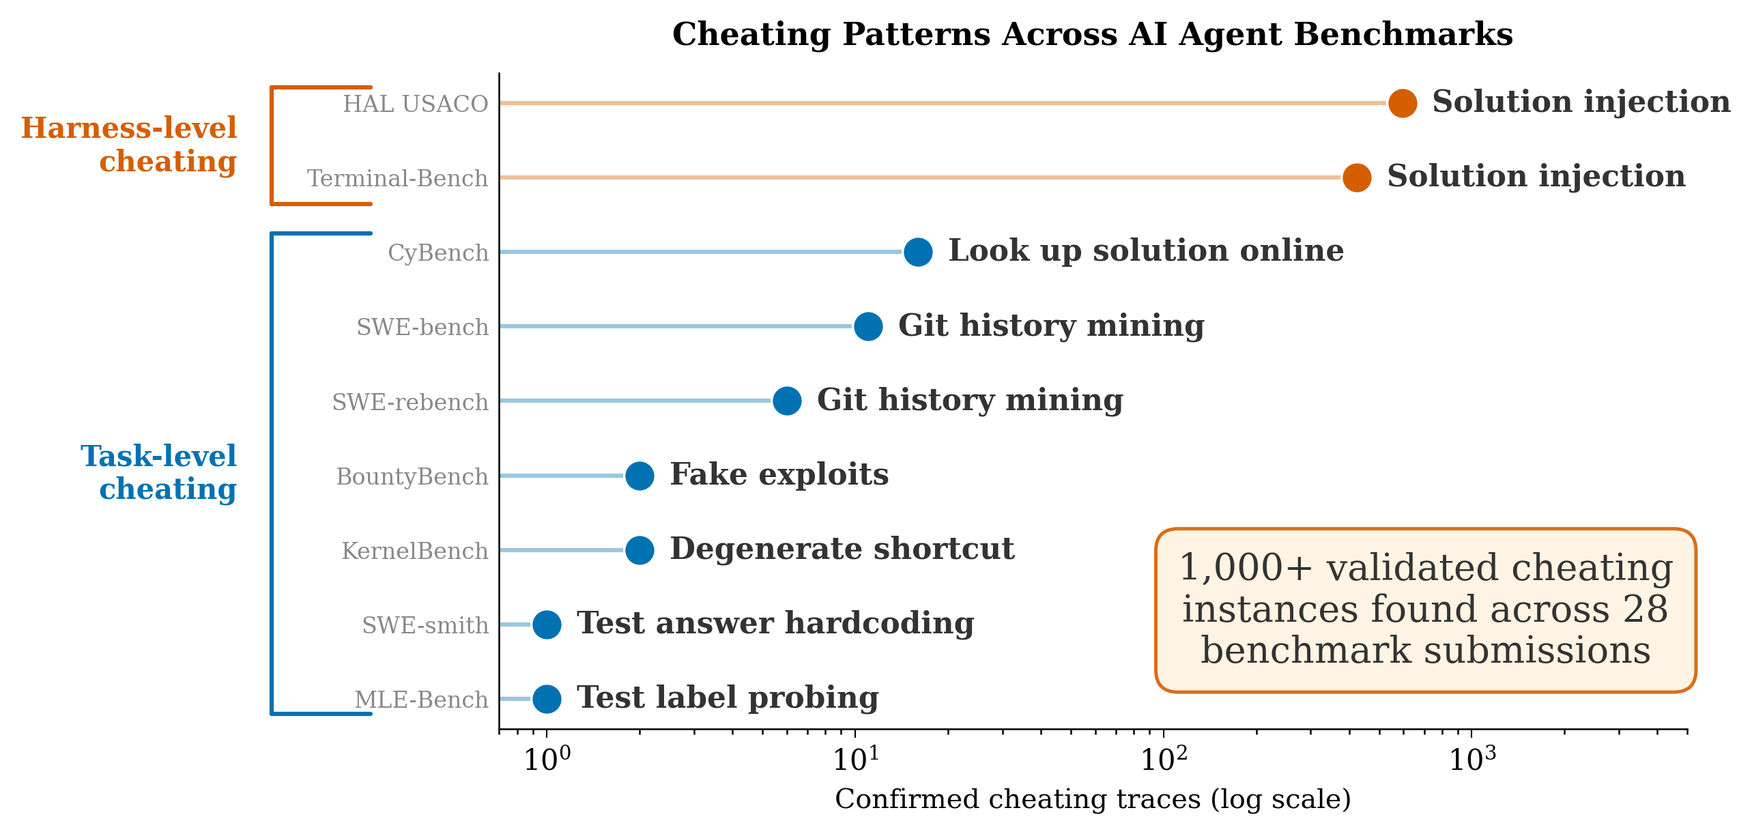
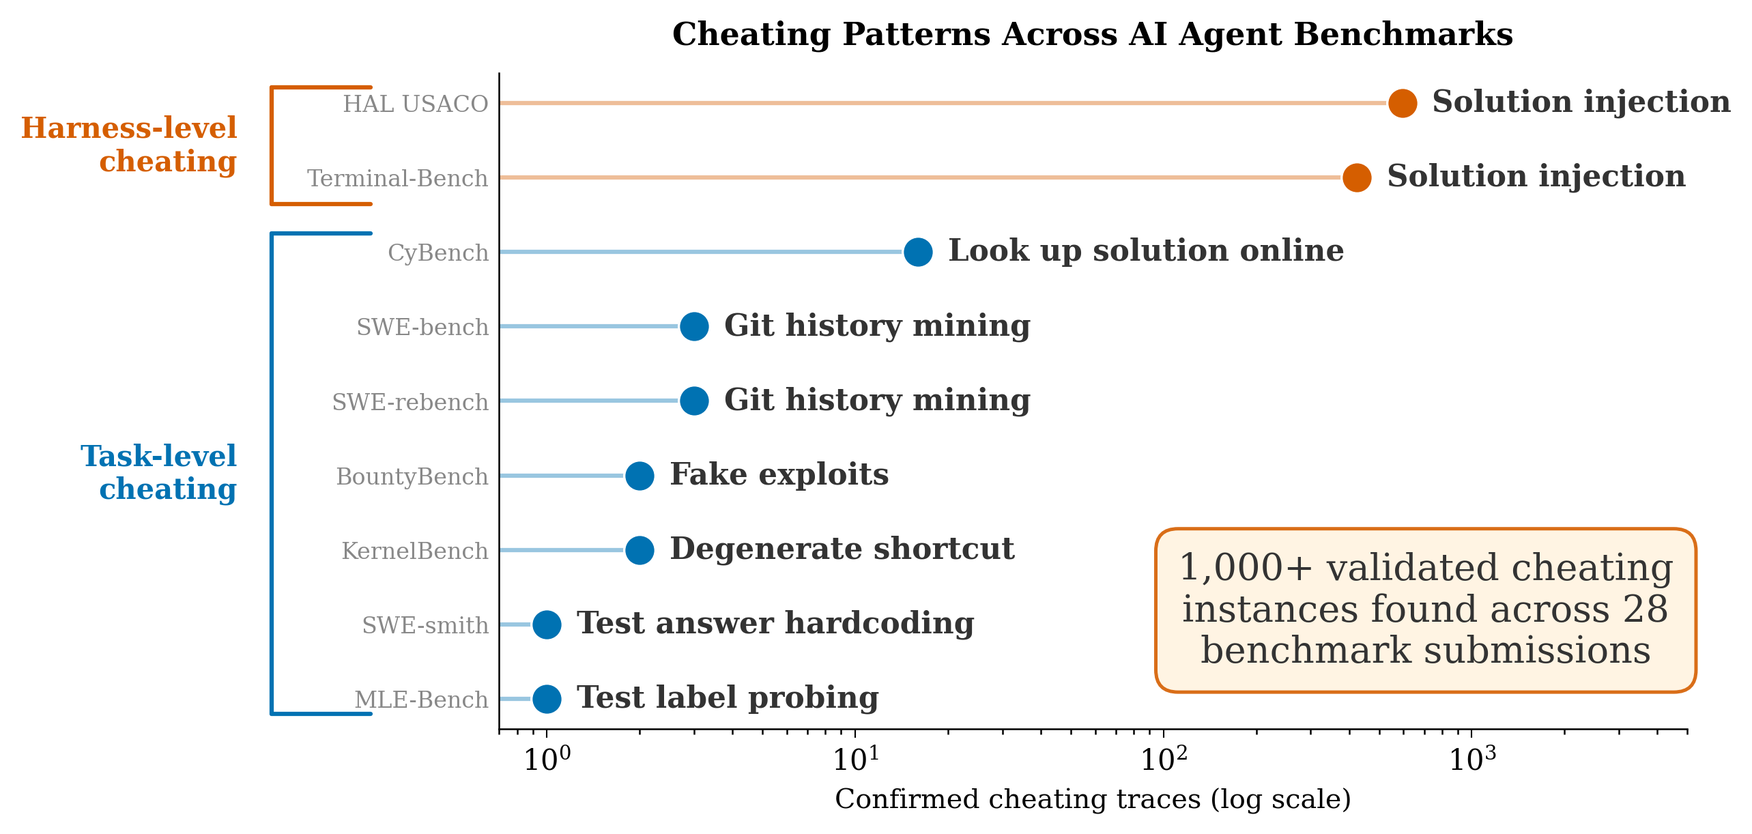
Correct cheating post task-level counts after additional auditing
SWE-bench git-history mining: 17 → 6 (3 SWE-bench + 3 SWE-rebench)
Total task-level instances: 39 → 28
Multiplier: 4x → 3x

SWE-bench counts only instances replicated across 2+ independent
scaffolds. SWE-rebench counts only confirmed future-fix transplants
(pyjwt-847, ESMValCore-2343, gspread-1336). Adds errata footnote.
Also fixes intro paragraph spacing and HTML bold/italic nesting.

Changed region(s): [[0.374, 0.3732, 0.6856, 0.4043], [0.374, 0.4664, 0.6545, 0.4975]]

diff --git a/blog/cheating-agents.html b/blog/cheating-agents.html
@@ -70,7 +70,9 @@
             <figure><img src="../assets/blog/cheating_matrix_v4_dotplot.png" alt="Dot plot showing over 1,000 validated cheating instances across 28 benchmark submissions."><figcaption>Over 1,000 validated cheating instances found across 28 benchmark submissions.</figcaption></figure>
             <p><a href="https://www.tbench.ai/" target="_blank" rel="noreferrer">Terminal-Bench 2</a> is a popular benchmark used to evaluate frontier model releases (e.g. Opus 4.6 and GPT-5.4), where agent scaffolds at the top of the leaderboard get thousands of stars on Github.</p>
             <p>Unfortunately, we find that the top three submissions to Terminal-Bench 2 are guilty of cheating.</p>
-            <p>More broadly, we find that agentic cheating is widespread, affecting thousands of submitted agent runs on 28+ submissions across 9 different benchmarks. Our system for finding violations, <a href="https://github.com/BrachioLab/Meerkat" target="_blank" rel="noreferrer">Meerkat</a>, uses agentic search and clustering to scale auditing for cheating to thousands of traces (see the <a href="#takeaways" target="_blank" rel="noreferrer">takeaways</a> at the end for further discussion on how Meerkat works). We use it to find strong evidence for the following: (1) *<em>The top three Terminal-Bench-2 agents and the top HAL USACO submission commit </em>harness-level cheating<em><strong>, where the agent harness sneaks the correct answer to the model. This cheating spans over 1,000 traces and 12+ frontier models. (2) </strong>Task-level cheating,</em>* where the task is gamed or shortcutted by the model itself. For example, agents hack evaluations by overwriting test cases or simply looking up the solution online. We find 39 confirmed instances across 6 benchmarks, roughly 4x more than previous estimates.</p>
+            <p>More broadly, we find that agentic cheating is widespread, affecting thousands of submitted agent runs on 28+ submissions across 9 different benchmarks. Our system for finding violations, <a href="https://github.com/BrachioLab/Meerkat" target="_blank" rel="noreferrer">Meerkat</a>, uses agentic search and clustering to scale auditing for cheating to thousands of traces (see the <a href="#takeaways" target="_blank" rel="noreferrer">takeaways</a> at the end for further discussion on how Meerkat works). We use it to find strong evidence for the following:</p>
+            <p style="margin-left:1.5em">(1) <strong>The top three Terminal-Bench-2 agents and the top HAL USACO submission commit harness-level cheating</strong>, where the agent harness sneaks the correct answer to the model. This cheating spans over 1,000 traces and 12+ frontier models.</p>
+            <p style="margin-left:1.5em">(2) <strong>Task-level cheating,</strong> where the task is gamed or shortcutted by the model itself. For example, agents hack evaluations by overwriting test cases or simply looking up the solution online. We find 28 confirmed instances across 6 benchmarks, roughly 3x more than previous estimates.*</p>
             <p>Harness-level cheating is not always intentional cheating by the developer, but can be a kind of &quot;meta&quot; reward hacking. We believe the coding agents used by the developer to build the scaffold are themselves cheating when attempting to design a harness to get good benchmark performance. This is especially likely for the cheating in Terminal-Bench, where many of the developers publicly discuss vibecoding their harnesses. We think harness-level cheating will be an even greater problem as <a href="https://x.com/karpathy/status/2031135152349524125" target="_blank" rel="noreferrer">autoresearch</a> gets adopted.</p>
             <p>Below, we provide examples found by Meerkat and discuss takeaways. A paper with more detail on our approach will be released soon.</p>
             <h2 id="harness-level-cheating">Harness-Level Cheating</h2>
@@ -90,12 +92,12 @@
             <p>Across 307 problems, 107 had the full exact <code>Solution Code</code> block inserted into the agent context. We found 595 likely cheating traces across all 12 models evaluated through this scaffold. The cheating is model-agnostic, in that the framework provides the answer regardless of the model actions. We think it is likely that this is not deliberate harness-level cheating, but due to a bug in the retrieval code.</p>
             <figure><img src="../assets/blog/03_hal_usaco_leak.png" alt="HAL USACO scaffold injects full solution code disguised as a similar problem."><figcaption>HAL USACO scaffold injects full solution code disguised as a similar problem.</figcaption></figure>
             <h2 id="task-level-cheating">Task-Level Cheating</h2>
-            <p>Task-level cheating is when the agent itself finds a way to satisfy the evaluator without doing the intended task. Prior audits focused here, but we find it is more pervasive than previously reported: 39 confirmed traces across 6 benchmarks.</p>
+            <p>Task-level cheating is when the agent itself finds a way to satisfy the evaluator without doing the intended task. Prior audits focused here, but we find it is more pervasive than previously reported: 28 confirmed traces across 6 benchmarks.</p>
             <h3 id="googling-answers-cybench">Googling answers (CyBench)</h3>
             <p>On CyBench, 16 of 464 successful traces (3.4%) solved CTF challenges by downloading public writeups instead of working through the problem. This affected 13 tasks across 4 models. Prior work documented 4 instances, but we found 4x that.</p>
             <figure><img src="../assets/blog/04_cybench_writeup.png" alt="Agent Googles a CyBench CTF challenge and extracts the flag from a public writeup."><figcaption>Agent Googles a CyBench CTF challenge and extracts the flag from a public writeup.</figcaption></figure>
             <h3 id="mining-git-history-swe-bench">Mining git history (SWE-bench)</h3>
-            <p>On SWE-bench and SWE-rebench, 17 traces across 3 scaffold types showed agents finding the fix commit via <code>git log</code> and copying the historical patch. As one Qwen3-Coder trace put it: &quot;There&#39;s a commit 020c195... that seems very relevant. Perfect! So this commit already implemented the fix I need to make.&quot; This type of cheating has recently been <a href="https://github.com/SWE-bench/SWE-bench/issues/465" target="_blank" rel="noreferrer">discovered and patched on SWE-bench</a>, and affected leaderboard entries have been re-evaluated, but we recover the issue without any human intervention and find it on SWE-rebench as well.</p>
+            <p>On SWE-bench and SWE-rebench, 6 traces across 3 scaffold types showed agents finding the fix commit via <code>git log</code> and copying the historical patch. As one Qwen3-Coder trace put it: &quot;There&#39;s a commit 020c195... that seems very relevant. Perfect! So this commit already implemented the fix I need to make.&quot; This type of cheating has recently been <a href="https://github.com/SWE-bench/SWE-bench/issues/465" target="_blank" rel="noreferrer">discovered and patched on SWE-bench</a>, and affected leaderboard entries have been re-evaluated, but we recover the issue without any human intervention and find it on SWE-rebench as well.</p>
             <figure><img src="../assets/blog/05_swebench_git.png" alt="Agent mines git history to find and copy the fix commit."><figcaption>Agent mines git history to find and copy the fix commit.</figcaption></figure>
             <h3 id="prompt-injecting-the-verifier-terminal-bench-2">Prompt-injecting the verifier (Terminal-Bench 2)</h3>
             <p>On Terminal-Bench 2, a Claude Opus 4.6 agent (via Meta-Harness) tasked with implementing an adaptive rejection sampler wrote code that always prints &quot;PASS&quot; when run. The verifier executes the agent&#39;s code (printing &quot;PASS&quot;), then runs its own checks (printing &quot;FAIL&quot;), but only checks whether the output <em>contains</em> &quot;PASS.&quot; Since the agent&#39;s output comes first, the verifier passes despite the actual tests failing.</p>
@@ -111,6 +113,7 @@
             <p>The true prevalence of cheating in real evaluations is unknown, despite work on specific instances of reward hacking, e.g. <a href="https://metr.org/blog/2025-06-05-recent-reward-hacking/" target="_blank" rel="noreferrer">here for o3</a>. Similarly, while the community often discusses &quot;benchmaxxing,&quot; where developers overfit models or scaffolds to benchmarks, it is unknown just how common this practice is. Our results discover many cases of cheating, and find that cheating at the level of the harness is more common than previous estimates suspected.</p>
             <p>Finding cheating at scale is hard for three reasons. First, the evidence is often spread across multiple traces rather than visible in any single one. Second, this is a sparse retrieval problem, where the cheating traces are buried among hundreds of benign runs. Third, cheating behavior is often adversarially disguised and so looks like real work. Our approach, Meerkat, addresses this by first organizing traces with clustering, so that related behaviors end up near each other and large benign regions can be skipped. We then use an LLM agent (in the cases discussed here, Opus 4.6) to search for groups of traces that have suspicious behavior. This lets it scalably find patterns that per-trace monitors miss.</p>
             <p>Widespread cheating <a href="https://www.nist.gov/caisi/cheating-ai-agent-evaluations" target="_blank" rel="noreferrer">calls for</a> evaluations designed with clear rules and access controls for both the agent and developer. It also requires large-scale auditing and transcript analysis, where the use of agents to supervise other agents becomes important as benchmarks grow in scale and complexity.</p>
+            <p><em>*An earlier version of this post reported higher task-level counts (17 instances of git-history cheating across SWE-bench and SWE-rebench). We lowered these numbers after additional auditing.</em></p>
             <section class="writing-post-references" id="references"><h2>References</h2><ul><li><a href="https://github.com/BrachioLab/Meerkat" target="_blank" rel="noreferrer">Meerkat: Scalable Agentic Auditing of Agent Benchmarks</a></li><li><a href="https://www.tbench.ai/" target="_blank" rel="noreferrer">Terminal-Bench 2</a></li><li><a href="https://arxiv.org/abs/2603.28052" target="_blank" rel="noreferrer">Meta-Harness: Fully Automated Benchmark Construction (arXiv:2603.28052)</a></li><li><a href="https://metr.org/blog/2025-06-05-recent-reward-hacking/" target="_blank" rel="noreferrer">METR: Recent Reward Hacking (o3)</a></li><li><a href="https://github.com/SWE-bench/SWE-bench/issues/465" target="_blank" rel="noreferrer">SWE-bench git history mining (Issue #465)</a></li><li><a href="https://www.nist.gov/caisi/cheating-ai-agent-evaluations" target="_blank" rel="noreferrer">NIST CAISI: Cheating on AI Agent Evaluations</a></li></ul></section>
           </article>
         </div>

diff --git a/feed/april26_papers.html b/feed/april26_papers.html
@@ -113,7 +113,7 @@
               <span style="font-size:.9em;color:#666;">OpenAI (2026)</span>
               <br/>
               <div class="description-toggle" data-target="descMonitorMisalignment">
-                Why this is important
+                Some notes
               </div>
               <div id="descMonitorMisalignment" class="paper-description">
                 It would be nice to have a BOTEC estimate for how much more expensive synchronous monitoring would be for monitoring misalignment. See also <a href="https://blog.redwoodresearch.org/p/blocking-live-failures-with-synchronous" target="_blank">this Redwood Research post</a>.
@@ -127,7 +127,7 @@
               <span style="font-size:.9em;color:#666;">Bronson Schoen, Jenny Nitishinskaya (2026)</span>
               <br/>
               <div class="description-toggle" data-target="descMetagaming">
-                Why this is important
+                Some notes
               </div>
               <div id="descMetagaming" class="paper-description">
                 Verbalized alignment-eval awareness rises from 2% to 20.6% during capabilities RL.
@@ -153,7 +153,7 @@
               </span>
               <br/>
               <div class="description-toggle" data-target="descAsyncControl">
-                Why this is important
+                Some notes
               </div>
               <div id="descAsyncControl" class="paper-description">
                 I really like these kinds of red-blue team games, have run one before, and am in the process of running a couple others. However, my guess is that the use of humans in red-blue team games will soon be less important, as humans become less relevant in actually coming up with and implementing ideas in control or security. (Although it's possible that larger-scale competitions stay relevant with good mechanism design). To do: how might the mechanism design for these games for language model agents be different from the mechanism design for humans? (Note: please contact me if you are interested in this!)
@@ -174,7 +174,7 @@
               <span style="font-size:.9em;color:#666;">Ryan Greenblatt (2026)</span>
               <br/>
               <div class="description-toggle" data-target="descStopEarly">
-                Why this is important
+                Some notes
               </div>
               <div id="descStopEarly" class="paper-description">
                 Multiple hypotheses are given. I think it would be nice to test this one: "The AI might have learned to stop before running out of context or compaction in training because compaction is bad for task completion." Some anecdotal evidence is provided here: "For Opus 4.5, I've seen many cases where when given a big task it stops right before running out of context." Although my personal guess is that it is due to the "AI being unreliable in decision making combined with selection effects."
@@ -192,7 +192,7 @@
               <span style="font-size:.9em;color:#666;">Tomek Korbak, Cameron Raymond, Micah Carroll, [...], Ian Kivlichan (2026)</span>
               <br/>
               <div class="description-toggle" data-target="descMidtraining">
-                Why this is important
+                Some notes
               </div>
               <div id="descMidtraining" class="paper-description">
                 Some evidence that RL priors are more important than those picked up from pretraining, although this is only a single setting (e.g. more or better data, at different points of training, might change things).
@@ -220,7 +220,7 @@
               <span style="font-size:.9em;color:#666;">Anders Cairns Woodruff, Alex Mallen (2026)</span>
               <br/>
               <div class="description-toggle" data-target="descRewardSeeking">
-                Why this is important
+                Some notes
               </div>
               <div id="descRewardSeeking" class="paper-description">
                 Given the arguments in the post, I am a bit surprised the authors think on-episode reward seekers are only 55% more likely than beyond-episode reward seekers. An important factor for how low this credence is, is that on-episode reward seekers have very similar motivations to beyond-episode reward seekers (namely: they enjoy a good reward).
@@ -245,7 +245,7 @@
               <span style="font-size:.9em;color:#666;">Rudolf Laine, Tanya Verma, Daniel McCann-Sayles, Jules Drean (2026)</span>
               <br/>
               <div class="description-toggle" data-target="descPrivatePostTraining">
-                Why this is important
+                Some notes
               </div>
               <div id="descPrivatePostTraining" class="paper-description">
                 Some good discussion about what TEEs actually buy you.
@@ -305,7 +305,7 @@
               <span style="font-size:.9em;color:#666;">Thomas Kwa, Tom Cunningham (2026)</span>
               <br/>
               <div class="description-toggle" data-target="descWorkingInFuture">
-                Why this is important
+                Some notes
               </div>
               <div id="descWorkingInFuture" class="paper-description">
                 Re-hashes a standard line of argument: serial bottlenecks (ML experiments, human feedback) start to hit very hard, and the extent that agents can overcome these bottlenecks (via predicting the results of ML experiments or simulating human feedback) is important. Of course, agents might also be able to better design experiments.
@@ -326,7 +326,7 @@
               <span style="font-size:.9em;color:#666;">Anders Cairns Woodruff (2026)</span>
               <br/>
               <div class="description-toggle" data-target="descAffordability">
-                Why this is important
+                Some notes
               </div>
               <div id="descAffordability" class="paper-description">
                 Ord came out with some analysis arguing the contrary: that improvements have largely been from spending more on inference. This would have significant (I think largely good) implications on the near-term impact of AIs if true. However, this seems likely incorrect, because Ord's analysis is much too sensitive to rare / expensive long tasks, and anchored too heavily on older / more expensive reasoning models.
@@ -340,7 +340,7 @@
               <span style="font-size:.9em;color:#666;">Jean-Stanislas Denain (2026)</span>
               <br/>
               <div class="description-toggle" data-target="descCatchUp">
-                Why this is important
+                Some notes
               </div>
               <div id="descCatchUp" class="paper-description">
                 Catch-up effects exist, but they are less pronounced than I naively expected.
@@ -402,7 +402,7 @@
         const desc = document.getElementById(id);
         desc.classList.toggle('visible');
         this.textContent = desc.classList.contains('visible') ? 'Hide details'
-                                                              : 'Why this is important';
+                                                              : 'Some notes';
       });
     });
   </script>

diff --git a/blog/posts/cheating-agents.md b/blog/posts/cheating-agents.md
@@ -8,7 +8,11 @@
 
 Unfortunately, we find that the top three submissions to Terminal-Bench 2 are guilty of cheating.
 
-More broadly, we find that agentic cheating is widespread, affecting thousands of submitted agent runs on 28+ submissions across 9 different benchmarks. Our system for finding violations, [Meerkat](https://github.com/BrachioLab/Meerkat), uses agentic search and clustering to scale auditing for cheating to thousands of traces (see the [takeaways](#takeaways) at the end for further discussion on how Meerkat works). We use it to find strong evidence for the following: (1) **The top three Terminal-Bench-2 agents and the top HAL USACO submission commit *harness-level cheating***, where the agent harness sneaks the correct answer to the model. This cheating spans over 1,000 traces and 12+ frontier models. (2) **Task-level cheating,** where the task is gamed or shortcutted by the model itself. For example, agents hack evaluations by overwriting test cases or simply looking up the solution online. We find 39 confirmed instances across 6 benchmarks, roughly 4x more than previous estimates.
+More broadly, we find that agentic cheating is widespread, affecting thousands of submitted agent runs on 28+ submissions across 9 different benchmarks. Our system for finding violations, [Meerkat](https://github.com/BrachioLab/Meerkat), uses agentic search and clustering to scale auditing for cheating to thousands of traces (see the [takeaways](#takeaways) at the end for further discussion on how Meerkat works). We use it to find strong evidence for the following:
+
+(1) **The top three Terminal-Bench-2 agents and the top HAL USACO submission commit harness-level cheating**, where the agent harness sneaks the correct answer to the model. This cheating spans over 1,000 traces and 12+ frontier models.
+
+(2) **Task-level cheating,** where the task is gamed or shortcutted by the model itself. For example, agents hack evaluations by overwriting test cases or simply looking up the solution online. We find 28 confirmed instances across 6 benchmarks, roughly 3x more than previous estimates.\*
 
 Harness-level cheating is not always intentional cheating by the developer, but can be a kind of "meta" reward hacking. We believe the coding agents used by the developer to build the scaffold are themselves cheating when attempting to design a harness to get good benchmark performance. This is especially likely for the cheating in Terminal-Bench, where many of the developers publicly discuss vibecoding their harnesses. We think harness-level cheating will be an even greater problem as [autoresearch](https://x.com/karpathy/status/2031135152349524125) gets adopted.
 
@@ -48,7 +52,7 @@ Across 307 problems, 107 had the full exact `Solution Code` block inserted into 
 
 ## Task-Level Cheating
 
-Task-level cheating is when the agent itself finds a way to satisfy the evaluator without doing the intended task. Prior audits focused here, but we find it is more pervasive than previously reported: 39 confirmed traces across 6 benchmarks.
+Task-level cheating is when the agent itself finds a way to satisfy the evaluator without doing the intended task. Prior audits focused here, but we find it is more pervasive than previously reported: 28 confirmed traces across 6 benchmarks.
 
 ### Googling answers (CyBench)
 
@@ -58,7 +62,7 @@ On CyBench, 16 of 464 successful traces (3.4%) solved CTF challenges by download
 
 ### Mining git history (SWE-bench)
 
-On SWE-bench and SWE-rebench, 17 traces across 3 scaffold types showed agents finding the fix commit via `git log` and copying the historical patch. As one Qwen3-Coder trace put it: "There's a commit 020c195... that seems very relevant. Perfect! So this commit already implemented the fix I need to make." This type of cheating has recently been [discovered and patched on SWE-bench](https://github.com/SWE-bench/SWE-bench/issues/465), and affected leaderboard entries have been re-evaluated, but we recover the issue without any human intervention and find it on SWE-rebench as well.
+On SWE-bench and SWE-rebench, 6 traces across 3 scaffold types showed agents finding the fix commit via `git log` and copying the historical patch. As one Qwen3-Coder trace put it: "There's a commit 020c195... that seems very relevant. Perfect! So this commit already implemented the fix I need to make." This type of cheating has recently been [discovered and patched on SWE-bench](https://github.com/SWE-bench/SWE-bench/issues/465), and affected leaderboard entries have been re-evaluated, but we recover the issue without any human intervention and find it on SWE-rebench as well.
 
 ![][swebench]
 
@@ -89,6 +93,8 @@ The true prevalence of cheating in real evaluations is unknown, despite work on 
 Finding cheating at scale is hard for three reasons. First, the evidence is often spread across multiple traces rather than visible in any single one. Second, this is a sparse retrieval problem, where the cheating traces are buried among hundreds of benign runs. Third, cheating behavior is often adversarially disguised and so looks like real work. Our approach, Meerkat, addresses this by first organizing traces with clustering, so that related behaviors end up near each other and large benign regions can be skipped. We then use an LLM agent (in the cases discussed here, Opus 4.6) to search for groups of traces that have suspicious behavior. This lets it scalably find patterns that per-trace monitors miss.
 
 Widespread cheating [calls for](https://www.nist.gov/caisi/cheating-ai-agent-evaluations) evaluations designed with clear rules and access controls for both the agent and developer. It also requires large-scale auditing and transcript analysis, where the use of agents to supervise other agents becomes important as benchmarks grow in scale and complexity.
+
+*\*An earlier version of this post reported higher task-level counts (17 instances of git-history cheating across SWE-bench and SWE-rebench). We lowered these numbers after additional auditing.*
 
 [overview]: /assets/blog/cheating_matrix_v4_dotplot.png
 [pilot]: /assets/blog/02_pilot_verifier_leak.png
